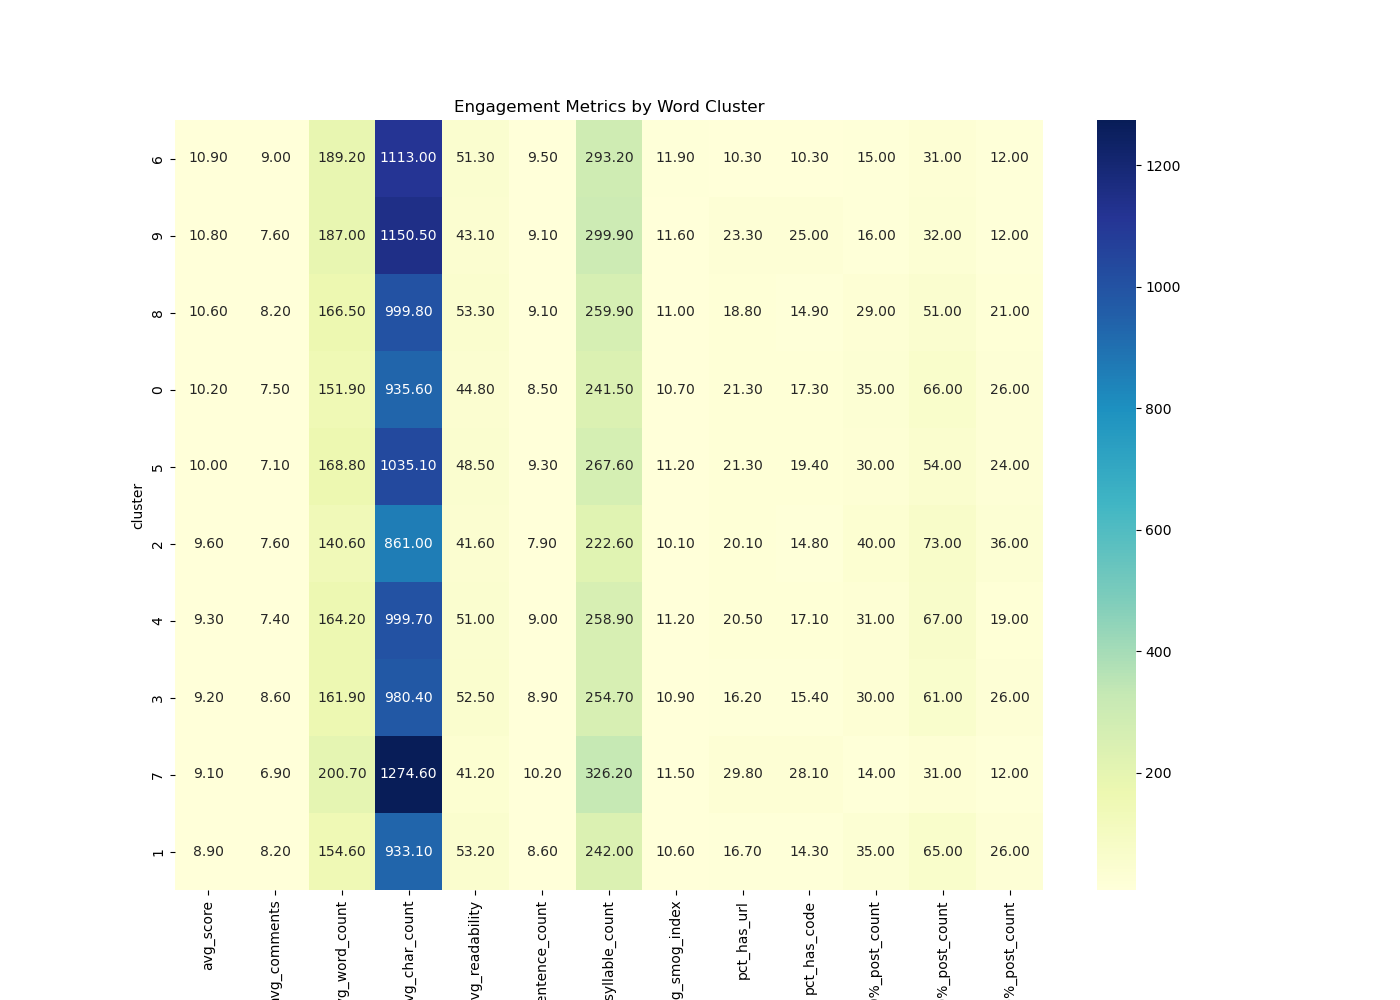
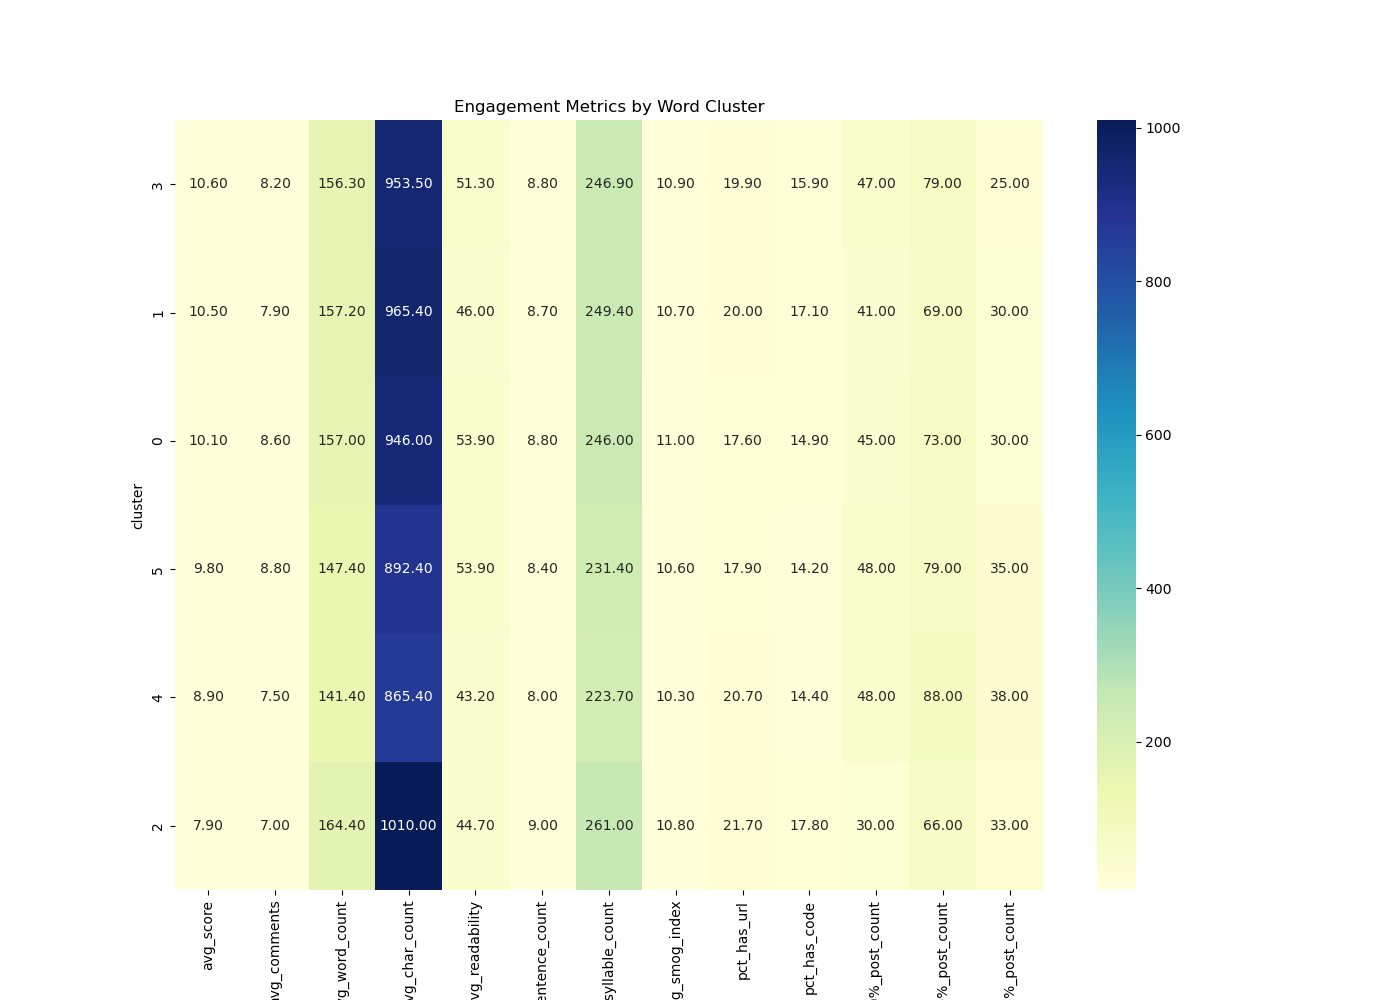
added elbow method before KMean clustering

diff --git a/semantic_clustering/w2v_analysis.py b/semantic_clustering/w2v_analysis.py
@@ -15,13 +15,51 @@ import sys
 from adjustText import adjust_text
 from scipy.spatial import ConvexHull
 import plotly.express as px
+from kneed import KneeLocator
 
+nltk.download('stopwords')
 '''
 This program uses Word2Vec to get similar clusters of words, and measures each cluster's average score.
 '''
 
-nltk.download('stopwords')
+# function to split all of the text of the body into words/tokens
+def preprocess(text):
+    text = str(text).lower()
+    text = re.sub(r"[^a-zA-Z\s]", "", text) # replace all non characters and white spaces with a blank 
+    tokens = text.split()
+    tokens = [word for word in tokens if word not in stop_words and len(word) > 2] # filter out words less than 2 characters and that are in the stop words
+    return tokens
 
+def kmeans_elbow_method(max_k, data, output_file_path):
+    inertia = []
+    k_values = range(2, max_k + 1)
+
+    # find inertia values for each cluster
+    for k in k_values:
+        kmeans = KMeans(n_clusters = k, random_state = 42, max_iter = 1000)
+
+        kmeans.fit_predict(data)
+
+        inertia.append(kmeans.inertia_) # saves the sum of squared distance between the cluster centroid and the data poits in each cluster
+    
+    # use the KneeLocator library to find the optimal k 
+    kn = KneeLocator(k_values, inertia, curve = 'convex', direction = 'decreasing')
+    optimal_k = kn.knee 
+
+    # plot the intertia values to find the optimal k for K Means using the K Means method 
+    plt.figure(figsize = (14, 6))
+    plt.plot(k_values, inertia, marker = 'o', label = 'Inertia')
+    plt.axvline(x = optimal_k, color = 'red', linestyle = '--', label = f'Optimal k = {optimal_k}')
+    plt.title('KMeans Inertia for Different Values of k')
+    plt.xlabel('Numer of Clusters (k)')
+    plt.ylabel('Total WCSS/Error')
+    plt.xticks(k_values)
+    plt.legend()
+    plt.grid(True)
+    plt.savefig(output_file_path)
+
+    return optimal_k
+    
 # add root directory of project to Python's import path so we can import modules from older folders
 sys.path.insert(0, os.path.dirname(os.path.dirname(os.path.abspath(__file__))))
 
@@ -33,13 +71,6 @@ print(combined_df.head())
 
 # preprocess: change all words to lowercase, remove punctuation, and stopwords amd tokenize (split bodies into words/tokens)
 stop_words = set(stopwords.words('english'))
-
-def preprocess(text):
-    text = str(text).lower()
-    text = re.sub(r"[^a-zA-Z\s]", "", text) # replace all non characters and white spaces with a blank 
-    tokens = text.split()
-    tokens = [word for word in tokens if word not in stop_words and len(word) > 2] # filter out words less than 2 characters and that are in the stop words
-    return tokens
 
 # get all preprocessed tokens for each post that are not null 
 combined_df['tokens'] = combined_df['body'].dropna().apply(preprocess)
@@ -80,8 +111,11 @@ vectors = word_vectors[words]
 pca = PCA(n_components=2)
 reduced = pca.fit_transform(vectors)
 
+# use the elbow method to check how many clusters to pick 
+optimal_k = kmeans_elbow_method(20, reduced, 'k_means_interia.png')
+
 # use k-means clustering to get clusters of wrod groups 
-kmeans = KMeans(n_clusters=10, random_state=42)
+kmeans = KMeans(n_clusters=optimal_k, random_state=42)
 labels = kmeans.fit_predict(reduced)
 
 # create a df for each cluster
@@ -220,32 +254,3 @@ plt.figure(figsize = (14, 10))
 sns.heatmap(data = heatmap_df, annot = True, fmt = '.2f', cmap = 'YlGnBu')
 plt.title('Engagement Metrics by Word Cluster')
 plt.savefig('cluster_engagement_metrics.png')
-
-# also make the above heatmap with each cluster and their avg statistics in plotly with tooltips to view each clusters words
-heatmap_df_plotly = heatmap_df.copy()
-
-# set index to cluster and drop keywords for heatmap data
-heatmap_df_plotly['keywords'] = cluster_insights_df.set_index('cluster')['keywords']
-data = heatmap_df_plotly.drop(columns='keywords')
-keywords = heatmap_df_plotly['keywords']
-
-# create the heatmap with plotly with the keywords for each cluster labelled
-fig = px.imshow(
-    data, 
-    labels = dict(x = 'Metric', y = 'Cluster', color = 'Value'),
-    text_auto = True
-)
-
-# inject keywords into the hover using customdata and hovertemplate
-fig.update_traces(
-    customdata = np.array(keywords).reshape(-1, 1),
-    hovertemplate =
-        "Cluster %{y}<br>" +
-        "Metric: %{x}<br>" +
-        "Value: %{z}<br>" +
-        "<b>Keywords:</b> %{customdata[0]}<extra></extra>"
-)
-
-# save the labelled heatmap 
-fig.update_layout(title = "Cluster Engagement Metrics with Keywords Tooltip")
-fig.write_html("cluster_engagement_metrics_plotly.html")
